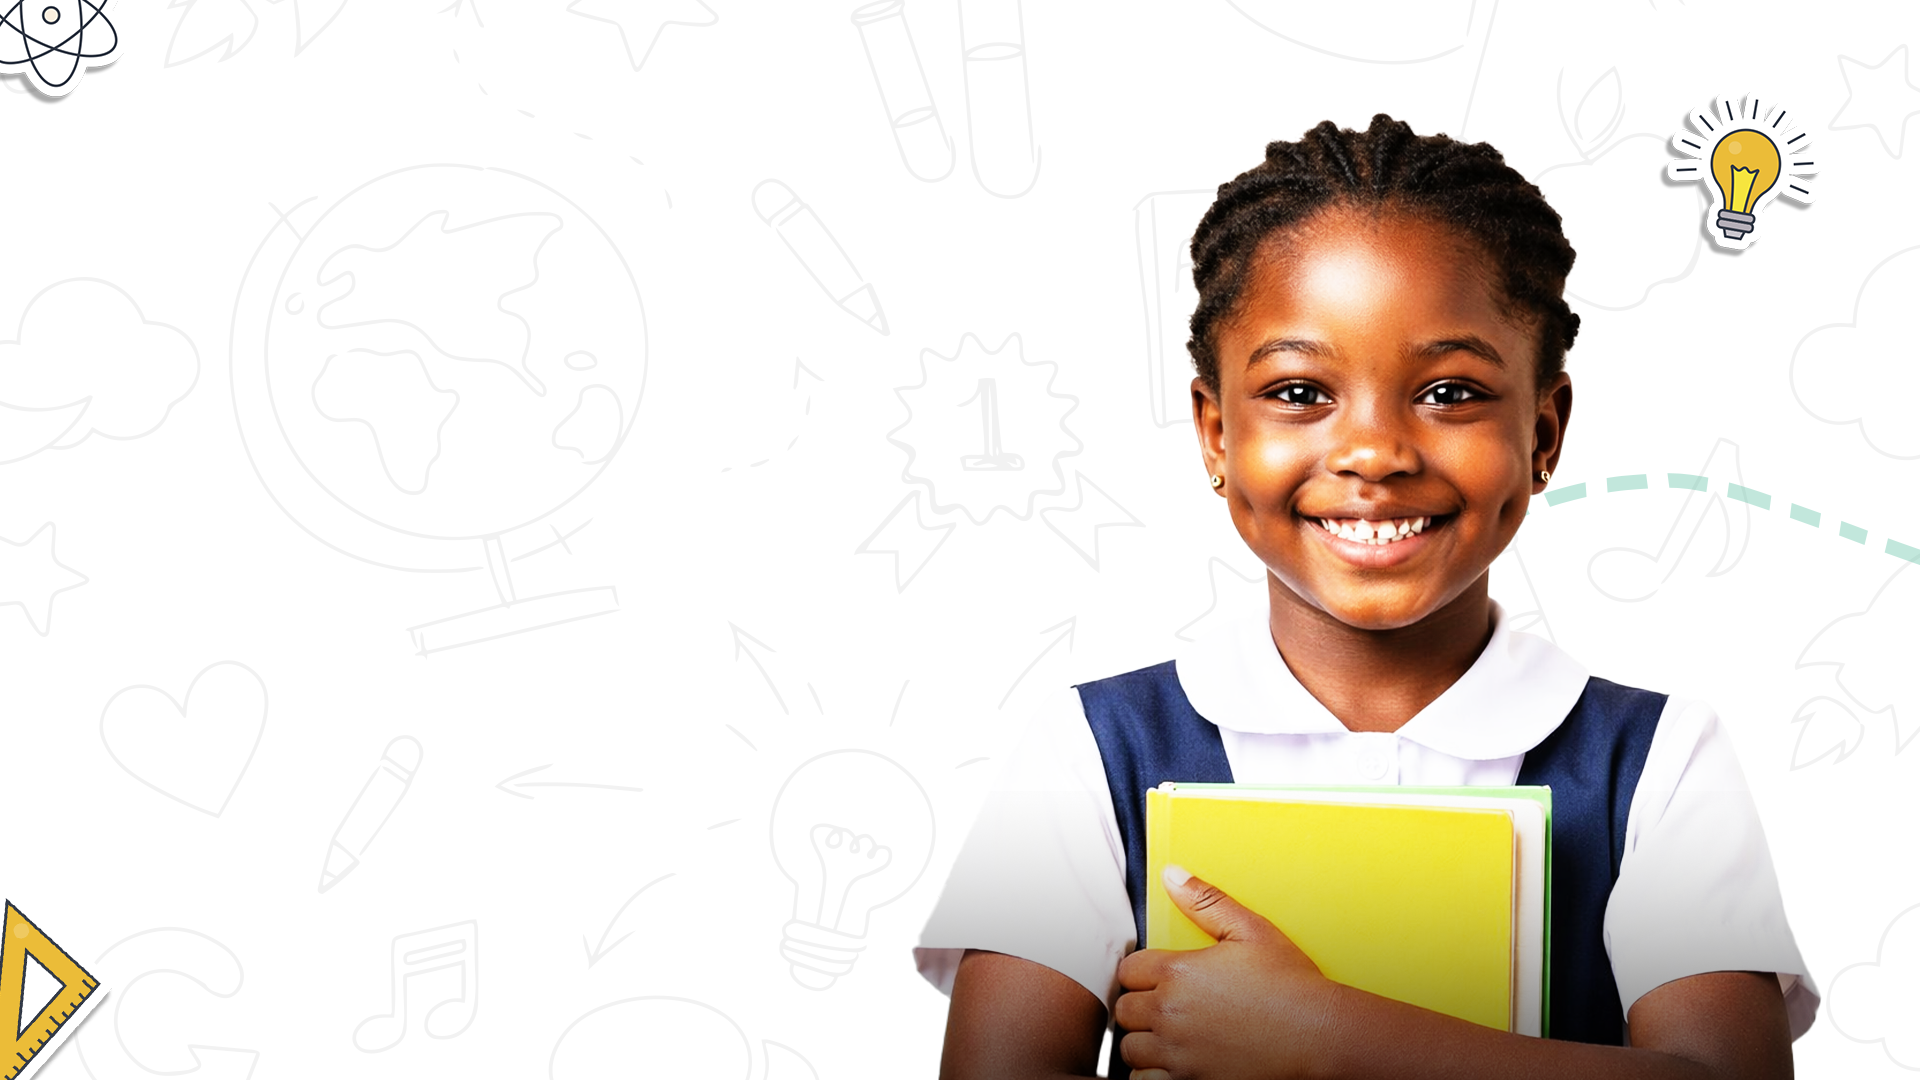
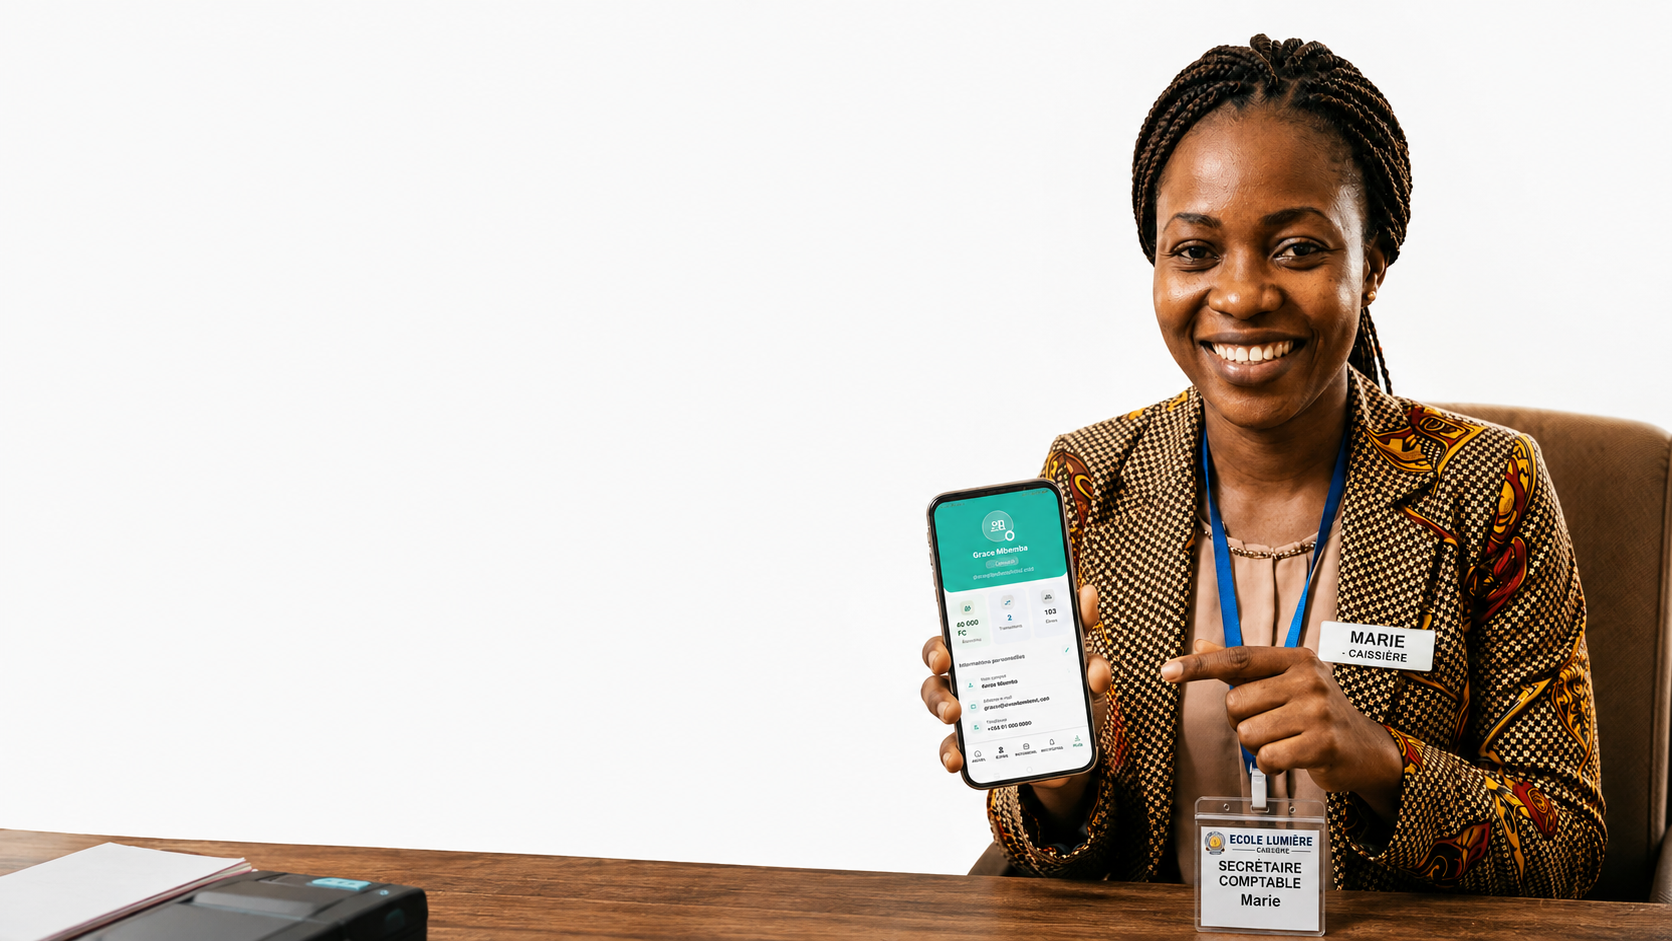
refactor: improve header and hero section styling and functionality
- Updated header component for better mobile responsiveness and navigation behavior.
- Enhanced hero section layout with improved spacing and text sizes for better readability.
- Adjusted image handling and background gradients for a more polished visual presentation.
- Updated button styles and interactions for a more consistent user experience.

diff --git a/components/sections/hero.tsx b/components/sections/hero.tsx
@@ -36,7 +36,7 @@ export default function Hero() {
 
   return (
     <section
-      className="relative min-h-[620px] w-full overflow-hidden sm:min-h-[660px] lg:min-h-[760px]"
+      className="relative min-h-[680px] w-full overflow-hidden sm:min-h-[660px] lg:min-h-[760px]"
       aria-roledescription="carousel"
       aria-label={t("hero.carouselLabel")}
       onMouseEnter={() => setIsPaused(true)}
@@ -70,26 +70,26 @@ export default function Hero() {
             <div className="absolute inset-0 bg-gradient-to-r from-black/80 via-black/60 to-black/75 mix-blend-multiply" />
             <div className="absolute inset-0 bg-primary/30 mix-blend-multiply" />
 
-            <div className="relative z-10 flex h-full items-center">
-              <div className="container mt-28 px-4 sm:mt-40 sm:px-6 lg:px-8">
+            <div className="relative z-10 flex h-full items-center pb-24 pt-28 sm:pb-20 sm:pt-40">
+              <div className="container px-4 sm:px-6 lg:px-8">
                 <div className="mx-auto max-w-4xl text-center">
                   <SlideContent delay={0}>
-                    <span className="mb-5 inline-block rounded-full border border-white/15 bg-white/10 px-3 py-1.5 text-xs font-extrabold text-white shadow-lg backdrop-blur-md sm:mb-7 sm:px-4 sm:py-2 sm:text-sm">
+                    <span className="mb-4 inline-block rounded-full border border-white/15 bg-white/10 px-3 py-1.5 text-[11px] font-extrabold text-white shadow-lg backdrop-blur-md min-[380px]:text-xs sm:mb-7 sm:px-4 sm:py-2 sm:text-sm">
                       {t("hero.badge")}
                     </span>
                   </SlideContent>
                   <SlideContent delay={0.12}>
-                    <h1 className="mb-4 text-balance break-words text-3xl font-extrabold leading-tight text-white sm:mb-6 sm:text-4xl md:text-5xl lg:text-6xl xl:text-7xl">
+                    <h1 className="mb-3 text-balance break-words text-[1.75rem] font-extrabold leading-[1.12] text-white min-[380px]:text-3xl sm:mb-6 sm:text-4xl md:text-5xl lg:text-6xl xl:text-7xl">
                       {t("hero.title")}
                     </h1>
                   </SlideContent>
                   <SlideContent delay={0.24}>
-                    <p className="mx-auto mb-7 max-w-3xl px-2 text-base font-medium leading-relaxed text-white/85 sm:mb-9 sm:px-0 sm:text-lg md:text-xl">
+                    <p className="mx-auto mb-5 max-w-3xl text-[0.925rem] font-medium leading-relaxed text-white/85 min-[380px]:px-2 min-[380px]:text-base sm:mb-9 sm:px-0 sm:text-lg md:text-xl">
                       {t("hero.subtitle")}
                     </p>
                   </SlideContent>
                   <SlideContent delay={0.36}>
-                    <div className="flex flex-col items-center justify-center gap-3 px-4 sm:flex-row sm:gap-4 sm:px-0">
+                    <div className="flex flex-col items-center justify-center gap-2 px-1 min-[380px]:px-4 sm:flex-row sm:gap-4 sm:px-0">
                       <HeroButton href="#solutions" label={t("hero.cta")} />
                       <HeroButton href="#contact" label={t("hero.contact")} secondary />
                     </div>
@@ -110,37 +110,40 @@ export default function Hero() {
             aria-roledescription="slide"
             aria-label={t("hero.slideTwoLabel")}
           >
-            <Image
-              src="/images/cover-avadaschool.png"
-              alt=""
-              fill
-              className="object-cover object-[58%_center] sm:object-center"
-              priority
-              sizes="100vw"
-            />
-            <div className="absolute inset-0 bg-gradient-to-r from-white via-white/95 to-white/10 sm:via-white/75 sm:to-transparent" />
+            <div className="absolute inset-x-0 -top-[30%] h-[130%] sm:inset-0 sm:h-full">
+              <Image
+                src="/images/cover-avadaschool.png"
+                alt=""
+                fill
+                className="translate-x-[8%] object-cover object-[56%_center] sm:translate-x-0 sm:object-center"
+                priority
+                quality={95}
+                sizes="100vw"
+              />
+              <div className="absolute inset-0 bg-[linear-gradient(90deg,#fff_0%,#fff_61%,rgba(255,255,255,0.9)_63%,rgba(255,255,255,0)_69%)] sm:bg-gradient-to-r sm:from-white sm:via-white/75 sm:to-transparent" />
+            </div>
 
-            <div className="relative z-10 flex h-full items-center">
-              <div className="container mt-24 px-5 sm:mt-32 sm:px-8 lg:px-12">
-                <div className="max-w-xl text-left lg:max-w-2xl">
+            <div className="relative z-10 flex h-full items-center pb-24 pt-28 sm:pb-20 sm:pt-32">
+              <div className="container px-5 sm:px-8 lg:px-12">
+                <div className="max-w-[62%] text-left sm:max-w-xl lg:max-w-2xl">
                   <SlideContent delay={0}>
-                    <span className="mb-5 inline-flex rounded-full border border-[#20aa81]/25 bg-[#20aa81]/10 px-3 py-1.5 text-xs font-extrabold text-[#137b5e] sm:px-4 sm:py-2 sm:text-sm">
+                    <span className="mb-3 inline-flex max-w-full rounded-full border border-[#20aa81]/25 bg-white/80 px-3 py-1.5 text-[10px] font-extrabold leading-tight text-[#137b5e] shadow-sm backdrop-blur-sm min-[380px]:text-[11px] sm:mb-5 sm:px-4 sm:py-2 sm:text-sm">
                       {t("hero.school.badge")}
                     </span>
                   </SlideContent>
                   <SlideContent delay={0.12}>
-                    <h2 className="mb-4 max-w-2xl text-balance text-3xl font-extrabold leading-[1.08] text-slate-950 sm:text-4xl md:text-5xl lg:text-6xl">
+                    <h2 className="mb-3 max-w-2xl text-balance text-[1.55rem] font-extrabold leading-[1.08] text-slate-950 min-[380px]:text-[1.7rem] sm:mb-4 sm:text-4xl md:text-5xl lg:text-6xl">
                       {t("hero.school.title")}
                     </h2>
                   </SlideContent>
                   <SlideContent delay={0.24}>
-                    <p className="mb-7 max-w-xl text-base font-medium leading-relaxed text-slate-700 sm:mb-9 sm:text-lg md:text-xl">
+                    <p className="mb-5 max-w-xl text-[0.82rem] font-medium leading-relaxed text-slate-700 min-[380px]:text-[0.9rem] sm:mb-9 sm:text-lg md:text-xl">
                       {t("hero.school.subtitle")}
                     </p>
                   </SlideContent>
                   <SlideContent delay={0.36}>
                     <Link href="https://www.avadaschool.com/login" target="_blank" rel="noreferrer">
-                      <Button size="lg" className="h-auto rounded-lg bg-[#20aa81] px-6 py-3.5 text-sm font-extrabold text-white shadow-lg shadow-[#20aa81]/20 transition-all duration-300 hover:bg-[#188d6c] hover:shadow-xl sm:px-7 sm:py-4 sm:text-base">
+                      <Button size="lg" className="h-auto max-w-full rounded-lg bg-[#20aa81] px-4 py-3 text-xs font-extrabold text-white shadow-lg shadow-[#20aa81]/20 transition-all duration-300 hover:bg-[#188d6c] hover:shadow-xl min-[380px]:text-sm sm:px-7 sm:py-4 sm:text-base">
                         {t("hero.school.cta")}
                         <ChevronRight className="ml-2 h-4 w-4 sm:h-5 sm:w-5" />
                       </Button>
@@ -153,9 +156,9 @@ export default function Hero() {
         )}
       </AnimatePresence>
 
-      <div className="absolute inset-x-0 bottom-5 z-20 sm:bottom-8">
+      <div className="absolute inset-x-0 bottom-4 z-20 sm:bottom-8">
         <div className="container flex items-center justify-between px-5 sm:px-8">
-          <div className="flex gap-2" aria-label={t("hero.slideNavigation") }>
+          <div className="flex gap-2" aria-label={t("hero.slideNavigation")}>
             {Array.from({ length: SLIDE_COUNT }).map((_, index) => (
               <button
                 key={index}
@@ -225,7 +228,7 @@ function CarouselButton({ children, onClick, label, dark }: { children: React.Re
       type="button"
       onClick={onClick}
       aria-label={label}
-      className={`flex h-10 w-10 items-center justify-center rounded-full border backdrop-blur-md transition-colors focus-visible:outline-none focus-visible:ring-2 focus-visible:ring-primary focus-visible:ring-offset-2 ${
+      className={`flex h-9 w-9 items-center justify-center rounded-full border backdrop-blur-md transition-colors focus-visible:outline-none focus-visible:ring-2 focus-visible:ring-primary focus-visible:ring-offset-2 sm:h-10 sm:w-10 ${
         dark
           ? "border-white/30 bg-black/20 text-white hover:bg-white/20"
           : "border-slate-300 bg-white/70 text-slate-800 hover:bg-white"

diff --git a/components/layout/header.tsx b/components/layout/header.tsx
@@ -275,8 +275,8 @@ export default function Header() {
         {isOpen &&
           typeof window !== "undefined" &&
           ReactDOM.createPortal(
-            <div className="fixed inset-0 z-[9999] bg-white flex flex-col md:hidden overflow-hidden">
-              <div className="flex items-center justify-between h-16 px-4 border-b bg-white">
+            <div className="fixed inset-0 z-[9999] flex h-[100dvh] flex-col overflow-hidden bg-white md:hidden">
+              <div className="flex h-16 shrink-0 items-center justify-between border-b bg-white px-4">
                 <Image
                   src="/images/logo.png"
                   alt="AvadaPay Logo"
@@ -297,14 +297,17 @@ export default function Header() {
               </div>
 
               {/* Mobile Navigation Links */}
-              <nav className="flex-1 flex flex-col items-center justify-center gap-4 px-4 overflow-y-auto">
+              <nav className="flex min-h-0 flex-1 flex-col items-center justify-start gap-4 overflow-y-auto overscroll-contain px-4 py-4 pb-6 [&>*]:shrink-0">
                 {navigationLinks.map((link, index) =>
                   link.translationKey === "nav.solutions" ? (
                     <div key={link.href} className="w-full">
                       <Button
                         variant="ghost"
                         className="w-full text-xl font-semibold py-3 rounded-lg text-gray-700 hover:text-primary hover:bg-gray-50 transition-all duration-300 flex items-center justify-center gap-2"
-                        onClick={() => setSolutionsOpen(!solutionsOpen)}
+                        onClick={() => {
+                          setSolutionsOpen((current) => !current);
+                          setDevelopersOpen(false);
+                        }}
                         style={{
                           animationDelay: `${index * 0.1}s`,
                           animation: "fadeInUp 0.5s ease forwards",
@@ -371,7 +374,10 @@ export default function Header() {
                   <Button
                     variant="ghost"
                     className="w-full text-xl font-semibold py-3 rounded-lg text-gray-700 hover:text-primary hover:bg-gray-50/80 hover:shadow-md transition-all duration-300 flex items-center justify-center gap-2"
-                    onClick={() => setDevelopersOpen(!developersOpen)}
+                    onClick={() => {
+                      setDevelopersOpen((current) => !current);
+                      setSolutionsOpen(false);
+                    }}
                     style={{
                       animationDelay: `${navigationLinks.length * 0.1}s`,
                       animation: "fadeInUp 0.5s ease forwards",
@@ -420,7 +426,7 @@ export default function Header() {
 
                 <Link
                   href={contactHref}
-                  className="mt-6 w-full btn-avada text-center py-4 rounded-lg text-white font-bold whitespace-nowrap shadow-lg hover:shadow-xl transition-all duration-300 hover:scale-105 border border-primary/20"
+                  className="btn-avada mt-6 flex min-h-14 w-full shrink-0 items-center justify-center whitespace-nowrap rounded-lg border border-primary/20 py-4 text-center font-bold text-white shadow-lg transition-all duration-300 hover:scale-[1.02] hover:shadow-xl"
                   onClick={() => setIsOpen(false)}
                   style={{
                     animation: "fadeInUp 0.5s 0.4s ease forwards",
@@ -432,7 +438,7 @@ export default function Header() {
               </nav>
 
               {/* Mobile Footer */}
-              <div className="p-6 border-t flex justify-center">
+              <div className="flex shrink-0 justify-center border-t bg-white p-4 sm:p-6">
                 <LanguageSwitcher />
               </div>
             </div>,
